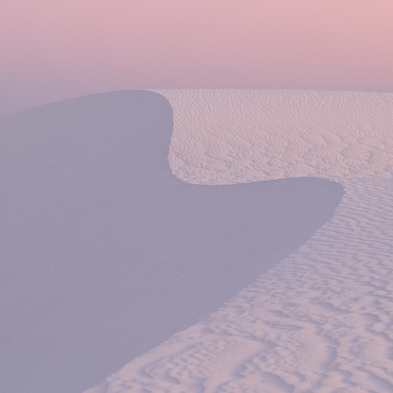
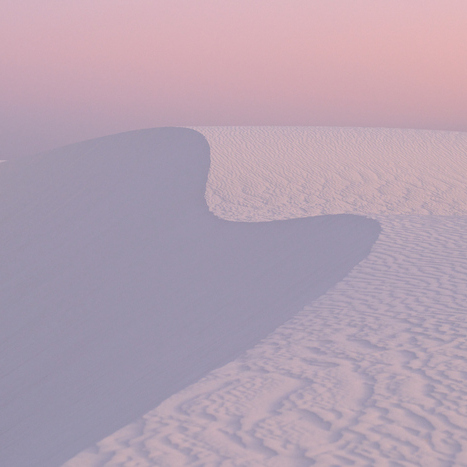
NV/UT/AZ and New Zealand

diff --git a/_posts/photos/2025-06-07-new-zealand.md b/_posts/photos/2025-06-07-new-zealand.md
@@ -1,0 +1,53 @@
+---
+layout: default
+title:  "New Zealand '25"
+cover: "/assets/img/photos/new-zealand-2025/cover.jpg"
+date:   2025-04-13 10:00:00 +1100
+permalink: photos/new-zealand-2025
+category: photos
+hidden: true
+---
+
+## New Zealand '25
+
+<br>
+
+<div class="photo-gallery">
+  <img src="/assets/img/photos/new-zealand-2025/1.jpg">
+  <img src="/assets/img/photos/new-zealand-2025/2.jpg">
+  <img src="/assets/img/photos/new-zealand-2025/3.jpg">
+  <img src="/assets/img/photos/new-zealand-2025/4.jpg">
+  <img src="/assets/img/photos/new-zealand-2025/5.jpg">
+  <img src="/assets/img/photos/new-zealand-2025/6.jpg">
+  <img src="/assets/img/photos/new-zealand-2025/7.jpg">
+  <img src="/assets/img/photos/new-zealand-2025/8.jpg">
+  <img src="/assets/img/photos/new-zealand-2025/9.jpg">
+  <img src="/assets/img/photos/new-zealand-2025/10.jpg">
+  <img src="/assets/img/photos/new-zealand-2025/11.jpg">
+  <img src="/assets/img/photos/new-zealand-2025/12.jpg">
+  <img src="/assets/img/photos/new-zealand-2025/13.jpg">
+  <img src="/assets/img/photos/new-zealand-2025/14.jpg">
+  <img src="/assets/img/photos/new-zealand-2025/15.jpg">
+  <img src="/assets/img/photos/new-zealand-2025/16.jpg">
+  <img src="/assets/img/photos/new-zealand-2025/17.jpg">
+  <img src="/assets/img/photos/new-zealand-2025/18.jpg">
+  <img src="/assets/img/photos/new-zealand-2025/19.jpg">
+  <img src="/assets/img/photos/new-zealand-2025/20.jpg">
+  <img src="/assets/img/photos/new-zealand-2025/21.jpg">
+  <img src="/assets/img/photos/new-zealand-2025/22.jpg">
+  <img src="/assets/img/photos/new-zealand-2025/23.jpg">
+  <img src="/assets/img/photos/new-zealand-2025/24.jpg">
+  <img src="/assets/img/photos/new-zealand-2025/25.jpg">
+  <img src="/assets/img/photos/new-zealand-2025/26.jpg">
+  <img src="/assets/img/photos/new-zealand-2025/27.jpg">
+  <img src="/assets/img/photos/new-zealand-2025/28.jpg">
+  <img src="/assets/img/photos/new-zealand-2025/29.jpg">
+  <img src="/assets/img/photos/new-zealand-2025/30.jpg">
+  <img src="/assets/img/photos/new-zealand-2025/31.jpg">
+  <img src="/assets/img/photos/new-zealand-2025/32.jpg">
+  <img src="/assets/img/photos/new-zealand-2025/33.jpg">
+  <img src="/assets/img/photos/new-zealand-2025/34.jpg">
+  <img src="/assets/img/photos/new-zealand-2025/35.jpg">
+  <img src="/assets/img/photos/new-zealand-2025/36.jpg">
+  <img src="/assets/img/photos/new-zealand-2025/37.jpg">
+</div>

diff --git a/_posts/photos/2025-04-13-nevada-utah-arizona copy.md b/_posts/photos/2025-04-13-nevada-utah-arizona copy.md
@@ -1,0 +1,29 @@
+---
+layout: default
+title:  "Nevada/Utah/Arizona '25"
+cover: "/assets/img/photos/nevada-utah-arizona-2025/cover.jpg"
+date:   2025-04-13 10:00:00 +1100
+permalink: photos/nevada-utah-arizona-2025
+category: photos
+hidden: true
+---
+
+## Nevada/Utah/Arizona '25
+
+<br>
+
+<div class="photo-gallery">
+  <img src="/assets/img/photos/nevada-utah-arizona-2025/1.jpg">
+  <img src="/assets/img/photos/nevada-utah-arizona-2025/2.jpg">
+  <img src="/assets/img/photos/nevada-utah-arizona-2025/3.jpg">
+  <img src="/assets/img/photos/nevada-utah-arizona-2025/4.jpg">
+  <img src="/assets/img/photos/nevada-utah-arizona-2025/5.jpg">
+  <img src="/assets/img/photos/nevada-utah-arizona-2025/6.jpg">
+  <img src="/assets/img/photos/nevada-utah-arizona-2025/7.jpg">
+  <img src="/assets/img/photos/nevada-utah-arizona-2025/8.jpg">
+  <img src="/assets/img/photos/nevada-utah-arizona-2025/9.jpg">
+  <img src="/assets/img/photos/nevada-utah-arizona-2025/10.jpg">
+  <img src="/assets/img/photos/nevada-utah-arizona-2025/11.jpg">
+  <img src="/assets/img/photos/nevada-utah-arizona-2025/12.jpg">
+  <img src="/assets/img/photos/nevada-utah-arizona-2025/13.jpg">
+</div>

diff --git a/README.md b/README.md
@@ -20,6 +20,6 @@ convert '*.jpg' -set filename:fn '%[basename]-small' -geometry 700x '%[filename:
 To create a cover.jpg:
 
 ```
-# Crop to 393px tall and wide
+# Crop to 393px tall and wide - change depending on short size of cover image
 convert ./cover.jpg -gravity center -crop 393x393+0+0 cropped.jpg
 ```
